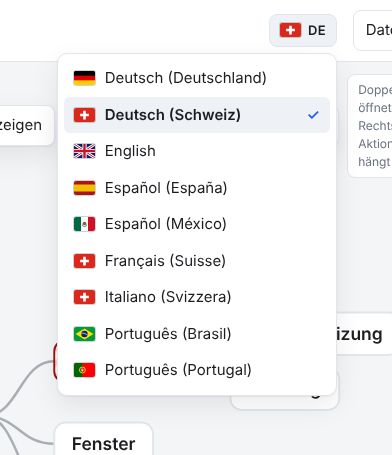
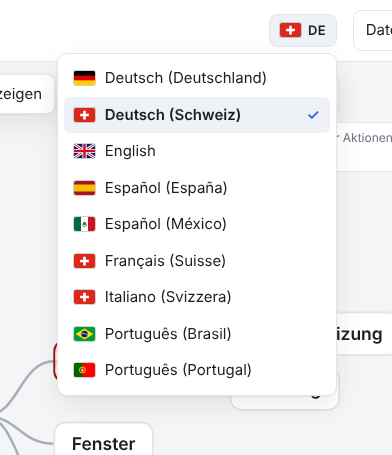
Kern v3.1.0: Sprachwechsel mit Flagge, sieben neue Sprachen, Mindmap ab einem Knoten als Bild
- Sprachen: Deutsch (Deutschland), Français (Suisse), Italiano (Svizzera), Español (España),
  Español (México), Português (Portugal), Português (Brasil) vollständig; «Deutsch (Schweiz)»
  bleibt die Quelle; npm test prüft alle Pakete streng (check --strict)
- Quelltext: eigener Text «ausgeschaltet» für den Status einer Erweiterung (statt «aus», das
  auch «aus Notiz …» heisst); Hilfe zu Querverweisen nennt den Knopf «Verweise ausblenden»
- Mindmap-Leiste: der Hinweis rechts rutscht bei wenig Platz in eine zweite Zeile
- Release-Notizen v3.1.0 mit Screenshots; Version 3.1.0

Claude-Session: https://claude.ai/code/session_01X51ioqC1PmCbJxskKrb5yq

Changed region(s): [[0.8571, 0.1846, 1.0, 0.3692], [0.0, 0.1846, 0.1224, 0.3077]]

diff --git a/lang/fr-CH.js b/lang/fr-CH.js
@@ -263,6 +263,8 @@ NoNotesI18n.register('fr-CH', 'Français (Suisse)', {
   'Noch keine Vorlagen. Verbinde unter «Vorlagen verwalten…» den Ordner templates/ neben index.html oder speichere eine Notiz über «Notiz → Als Vorlage speichern…».': 'Aucun modèle pour l’instant. Connectez le dossier templates/ situé à côté d’index.html sous « Gérer les modèles… » ou enregistrez une note via « Note → Enregistrer comme modèle… ».',
   'Im Bereich «{bereich}» stellt NoNotes jetzt {n} Notiz um.': { many: 'Dans l’espace de travail « {bereich} », NoNotes convertit maintenant {n} notes.', one: 'Dans l’espace de travail « {bereich} », NoNotes convertit maintenant {n} note.', other: 'Dans l’espace de travail « {bereich} », NoNotes convertit maintenant {n} notes.' },
   'Es ist keine Ausprägung geladen.': 'Aucune édition n’est chargée.',
+  'Sprache: {sprache}': 'Langue : {sprache}',
+  'Sprache': 'Langue',
   'Es gibt noch keine Aufgaben oder Fragen mit Termin.': 'Il n’y a pas encore de tâches ni de questions avec échéance.',
   '{n} Termin: {offen} offen': { many: '{n} échéances (ouvertes : {offen})', one: '{n} échéance (ouverte : {offen})', other: '{n} échéances (ouvertes : {offen})' },
   '{n} erledigt/beantwortet (als abgesagt)': 'terminées ou avec réponse : {n} (marquées comme annulées)',
@@ -305,6 +307,7 @@ NoNotesI18n.register('fr-CH', 'Français (Suisse)', {
   'aktiv': 'active',
   'Fehler': 'Erreur',
   'geladen': 'chargée',
+  'ausgeschaltet': 'désactivée',
   'verfügbar': 'disponible',
   'Ein': 'Activée',
   'Bringt ein Design mit; Auswahl im Menü Datenbank.': 'Inclut un thème ; à choisir dans le menu Base de données.',
@@ -623,7 +626,6 @@ NoNotesI18n.register('fr-CH', 'Français (Suisse)', {
   'Datenablage erklärt…': 'Stockage des données expliqué…',
   'Hilfe (F1)': 'Aide (F1)',
   'Erweiterungen…': 'Extensions…',
-  'Sprache': 'Langue',
   'Design': 'Thème',
   'Hauptfarbe': 'Couleur d’accentuation',
   'Neue Notiz unter der Auswahl (Tab)': 'Nouvelle note sous la sélection (Tab)',
@@ -878,7 +880,7 @@ NoNotesI18n.register('fr-CH', 'Français (Suisse)', {
   'Die Adresse nennt Nummer und Titel der Notiz und öffnet sie direkt, auch als Lesezeichen. In einer Notiz zeigt die Vorschau statt der Adresse den aktuellen Titel; ein Klick öffnet die Notiz in der App. Zurück und Vor im Browser (auch mit den Maustasten) gehen von Notiz zu Notiz und zwischen den Ansichten.': 'L’adresse indique le numéro et le titre de la note et l’ouvre directement, aussi comme favori. Dans une note, l’aperçu affiche le titre actuel au lieu de l’adresse ; un clic ouvre la note dans l’application. Précédent et Suivant dans le navigateur (aussi avec les boutons de la souris) passent d’une note à l’autre et d’une vue à l’autre.',
   'Querverweis': 'Référence croisée',
   '<code>[[Titel einer Notiz*]]</code> (Stern am Ende)': '<code>[[Titre de la note*]]</code> (astérisque à la fin)',
-  'Wie ein Verweis, dazu zieht die Mindmap eine gestrichelte Linie zu dieser Notiz, quer zur Hierarchie. Der Schalter «Verweise» in der Mindmap-Leiste blendet alle Linien ein oder aus.': 'Comme une référence, mais la carte mentale trace en plus une ligne pointillée vers cette note, en travers de la hiérarchie. Le bouton « Références » de la barre de la carte mentale affiche ou masque toutes les lignes.',
+  'Wie ein Verweis, dazu zieht die Mindmap eine gestrichelte Linie zu dieser Notiz, quer zur Hierarchie. Der Knopf «Verweise ausblenden» in der Mindmap-Leiste blendet alle Linien aus und wieder ein.': 'Comme une référence, mais la carte mentale trace en plus une ligne pointillée vers cette note, en travers de la hiérarchie. Le bouton « Masquer les références » de la barre de la carte mentale masque toutes les lignes et les réaffiche.',
   'Bild aus der Datenbank': 'Image de la base de données',
   '<code>![Name](att:ID)</code>, entsteht beim Einfügen über den Bild-Knopf, per <code>Ctrl+V</code> oder Ablegen': '<code>![Nom](att:ID)</code>, créé lors de l’insertion via le bouton d’image, avec <code>Ctrl+V</code> ou par glisser-déposer',
   'Das Bild liegt in der SQLite-Datei und wird mitexportiert.': 'L’image est stockée dans le fichier SQLite et exportée avec lui.',
@@ -966,5 +968,4 @@ NoNotesI18n.register('fr-CH', 'Français (Suisse)', {
   'In Ordner speichern…': 'Enregistrer dans un dossier…',
   'Als ZIP herunterladen': 'Télécharger en ZIP',
   'Lade NoNotes…': 'Chargement de NoNotes…',
-  'Sprache: {sprache}': 'Langue : {sprache}',
 }, { locale: 'fr-CH', flag: 'CH' });

diff --git a/lang/es-MX.js b/lang/es-MX.js
@@ -263,6 +263,8 @@ NoNotesI18n.register('es-MX', 'Español (México)', {
   'Noch keine Vorlagen. Verbinde unter «Vorlagen verwalten…» den Ordner templates/ neben index.html oder speichere eine Notiz über «Notiz → Als Vorlage speichern…».': 'Aún no hay plantillas. En “Administrar plantillas…”, conecta la carpeta templates/ que está junto a index.html, o guarda una nota con “Nota → Guardar como plantilla…”.',
   'Im Bereich «{bereich}» stellt NoNotes jetzt {n} Notiz um.': { many: 'En el espacio de trabajo “{bereich}”, NoNotes ahora convierte {n} notas.', one: 'En el espacio de trabajo “{bereich}”, NoNotes ahora convierte {n} nota.', other: 'En el espacio de trabajo “{bereich}”, NoNotes ahora convierte {n} notas.' },
   'Es ist keine Ausprägung geladen.': 'No hay ninguna edición cargada.',
+  'Sprache: {sprache}': 'Idioma: {sprache}',
+  'Sprache': 'Idioma',
   'Es gibt noch keine Aufgaben oder Fragen mit Termin.': 'Aún no hay tareas ni preguntas con fecha.',
   '{n} Termin: {offen} offen': { many: '{n} eventos, pendientes: {offen}', one: '{n} evento, pendientes: {offen}', other: '{n} eventos, pendientes: {offen}' },
   '{n} erledigt/beantwortet (als abgesagt)': 'completadas/respondidas: {n} (como canceladas)',
@@ -305,6 +307,7 @@ NoNotesI18n.register('es-MX', 'Español (México)', {
   'aktiv': 'activa',
   'Fehler': 'Error',
   'geladen': 'cargada',
+  'ausgeschaltet': 'desactivada',
   'verfügbar': 'disponible',
   'Ein': 'Activada',
   'Bringt ein Design mit; Auswahl im Menü Datenbank.': 'Incluye un tema; elígelo en el menú Base de datos.',
@@ -623,7 +626,6 @@ NoNotesI18n.register('es-MX', 'Español (México)', {
   'Datenablage erklärt…': 'Cómo se guardan tus datos…',
   'Hilfe (F1)': 'Ayuda (F1)',
   'Erweiterungen…': 'Extensiones…',
-  'Sprache': 'Idioma',
   'Design': 'Tema',
   'Hauptfarbe': 'Color principal',
   'Neue Notiz unter der Auswahl (Tab)': 'Nueva nota debajo de la selección (Tab)',
@@ -878,7 +880,7 @@ NoNotesI18n.register('es-MX', 'Español (México)', {
   'Die Adresse nennt Nummer und Titel der Notiz und öffnet sie direkt, auch als Lesezeichen. In einer Notiz zeigt die Vorschau statt der Adresse den aktuellen Titel; ein Klick öffnet die Notiz in der App. Zurück und Vor im Browser (auch mit den Maustasten) gehen von Notiz zu Notiz und zwischen den Ansichten.': 'La dirección indica el número y el título de la nota y la abre directamente, también como marcador. Dentro de una nota, la vista previa muestra el título actual en lugar de la dirección; un clic abre la nota en la app. Atrás y Adelante del navegador (también con los botones del mouse) van de nota en nota y entre las vistas.',
   'Querverweis': 'Referencia cruzada',
   '<code>[[Titel einer Notiz*]]</code> (Stern am Ende)': '<code>[[Título de una nota*]]</code> (asterisco al final)',
-  'Wie ein Verweis, dazu zieht die Mindmap eine gestrichelte Linie zu dieser Notiz, quer zur Hierarchie. Der Schalter «Verweise» in der Mindmap-Leiste blendet alle Linien ein oder aus.': 'Como una referencia, pero además el mapa mental traza una línea punteada hacia esa nota, a través de la jerarquía. El botón “Mostrar referencias” / “Ocultar referencias” de la barra del mapa mental muestra u oculta todas las líneas.',
+  'Wie ein Verweis, dazu zieht die Mindmap eine gestrichelte Linie zu dieser Notiz, quer zur Hierarchie. Der Knopf «Verweise ausblenden» in der Mindmap-Leiste blendet alle Linien aus und wieder ein.': 'Como una referencia, pero además el mapa mental traza una línea punteada hacia esa nota, a través de la jerarquía. El botón “Ocultar referencias” de la barra del mapa mental oculta todas las líneas y las vuelve a mostrar.',
   'Bild aus der Datenbank': 'Imagen de la base de datos',
   '<code>![Name](att:ID)</code>, entsteht beim Einfügen über den Bild-Knopf, per <code>Ctrl+V</code> oder Ablegen': '<code>![Nombre](att:ID)</code>, se crea al insertar una imagen con el botón de imagen, con <code>Ctrl+V</code> o al soltarla',
   'Das Bild liegt in der SQLite-Datei und wird mitexportiert.': 'La imagen se guarda en el archivo SQLite y se exporta con él.',
@@ -966,5 +968,4 @@ NoNotesI18n.register('es-MX', 'Español (México)', {
   'In Ordner speichern…': 'Guardar en carpeta…',
   'Als ZIP herunterladen': 'Descargar como ZIP',
   'Lade NoNotes…': 'Cargando NoNotes…',
-  'Sprache: {sprache}': 'Idioma: {sprache}',
 }, { locale: 'es-MX', flag: 'MX', regions: ['MX', '419', 'AR', 'BO', 'CL', 'CO', 'CR', 'CU', 'DO', 'EC', 'GT', 'HN', 'NI', 'PA', 'PE', 'PR', 'PY', 'SV', 'US', 'UY', 'VE'] });

diff --git a/lang/es-ES.js b/lang/es-ES.js
@@ -263,6 +263,8 @@ NoNotesI18n.register('es-ES', 'Español (España)', {
   'Noch keine Vorlagen. Verbinde unter «Vorlagen verwalten…» den Ordner templates/ neben index.html oder speichere eine Notiz über «Notiz → Als Vorlage speichern…».': 'Aún no hay plantillas. Conecta en «Gestionar plantillas…» la carpeta templates/ que está junto a index.html o guarda una nota con «Nota → Guardar como plantilla…».',
   'Im Bereich «{bereich}» stellt NoNotes jetzt {n} Notiz um.': { many: 'En el espacio de trabajo «{bereich}», NoNotes convierte ahora {n} notas.', one: 'En el espacio de trabajo «{bereich}», NoNotes convierte ahora {n} nota.', other: 'En el espacio de trabajo «{bereich}», NoNotes convierte ahora {n} notas.' },
   'Es ist keine Ausprägung geladen.': 'No hay ninguna edición cargada.',
+  'Sprache: {sprache}': 'Idioma: {sprache}',
+  'Sprache': 'Idioma',
   'Es gibt noch keine Aufgaben oder Fragen mit Termin.': 'Aún no hay tareas ni preguntas con fecha.',
   '{n} Termin: {offen} offen': { many: '{n} eventos, pendientes: {offen}', one: '{n} evento, pendientes: {offen}', other: '{n} eventos, pendientes: {offen}' },
   '{n} erledigt/beantwortet (als abgesagt)': 'completadas o respondidas: {n} (como canceladas)',
@@ -305,6 +307,7 @@ NoNotesI18n.register('es-ES', 'Español (España)', {
   'aktiv': 'activa',
   'Fehler': 'Error',
   'geladen': 'cargada',
+  'ausgeschaltet': 'desactivada',
   'verfügbar': 'disponible',
   'Ein': 'Activada',
   'Bringt ein Design mit; Auswahl im Menü Datenbank.': 'Incluye un tema; elígelo en el menú Base de datos.',
@@ -623,7 +626,6 @@ NoNotesI18n.register('es-ES', 'Español (España)', {
   'Datenablage erklärt…': 'Cómo se guardan tus datos…',
   'Hilfe (F1)': 'Ayuda (F1)',
   'Erweiterungen…': 'Extensiones…',
-  'Sprache': 'Idioma',
   'Design': 'Tema',
   'Hauptfarbe': 'Color principal',
   'Neue Notiz unter der Auswahl (Tab)': 'Nueva nota bajo la selección (Tab)',
@@ -878,7 +880,7 @@ NoNotesI18n.register('es-ES', 'Español (España)', {
   'Die Adresse nennt Nummer und Titel der Notiz und öffnet sie direkt, auch als Lesezeichen. In einer Notiz zeigt die Vorschau statt der Adresse den aktuellen Titel; ein Klick öffnet die Notiz in der App. Zurück und Vor im Browser (auch mit den Maustasten) gehen von Notiz zu Notiz und zwischen den Ansichten.': 'La dirección indica el número y el título de la nota y la abre directamente, también como marcador. Dentro de una nota, la vista previa muestra el título actual en lugar de la dirección; un clic abre la nota en la aplicación. Atrás y Adelante del navegador (también con los botones del ratón) van de nota en nota y entre las vistas.',
   'Querverweis': 'Referencia cruzada',
   '<code>[[Titel einer Notiz*]]</code> (Stern am Ende)': '<code>[[Título de una nota*]]</code> (asterisco al final)',
-  'Wie ein Verweis, dazu zieht die Mindmap eine gestrichelte Linie zu dieser Notiz, quer zur Hierarchie. Der Schalter «Verweise» in der Mindmap-Leiste blendet alle Linien ein oder aus.': 'Como una referencia, pero además el mapa mental traza una línea discontinua hasta esta nota, transversal a la jerarquía. El botón «Ocultar referencias» («Mostrar referencias») de la barra del mapa mental muestra u oculta todas las líneas.',
+  'Wie ein Verweis, dazu zieht die Mindmap eine gestrichelte Linie zu dieser Notiz, quer zur Hierarchie. Der Knopf «Verweise ausblenden» in der Mindmap-Leiste blendet alle Linien aus und wieder ein.': 'Como una referencia, pero además el mapa mental traza una línea discontinua hasta esta nota, transversal a la jerarquía. El botón «Ocultar referencias» de la barra del mapa mental oculta todas las líneas y las vuelve a mostrar.',
   'Bild aus der Datenbank': 'Imagen de la base de datos',
   '<code>![Name](att:ID)</code>, entsteht beim Einfügen über den Bild-Knopf, per <code>Ctrl+V</code> oder Ablegen': '<code>![Nombre](att:ID)</code>, se crea al insertar una imagen con el botón de imagen, con <code>Ctrl+V</code> o soltándola',
   'Das Bild liegt in der SQLite-Datei und wird mitexportiert.': 'La imagen se guarda en el archivo SQLite y se exporta con él.',
@@ -966,5 +968,4 @@ NoNotesI18n.register('es-ES', 'Español (España)', {
   'In Ordner speichern…': 'Guardar en carpeta…',
   'Als ZIP herunterladen': 'Descargar como ZIP',
   'Lade NoNotes…': 'Cargando NoNotes…',
-  'Sprache: {sprache}': 'Idioma: {sprache}',
 }, { locale: 'es-ES', flag: 'ES', regions: ['ES'] });

diff --git a/lang/pt-PT.js b/lang/pt-PT.js
@@ -263,6 +263,8 @@ NoNotesI18n.register('pt-PT', 'Português (Portugal)', {
   'Noch keine Vorlagen. Verbinde unter «Vorlagen verwalten…» den Ordner templates/ neben index.html oder speichere eine Notiz über «Notiz → Als Vorlage speichern…».': 'Ainda não há modelos. Em «Gerir modelos…», ligue a pasta templates/ que está ao lado de index.html, ou guarde uma nota com «Nota → Guardar como modelo…».',
   'Im Bereich «{bereich}» stellt NoNotes jetzt {n} Notiz um.': { many: 'Na área «{bereich}», o NoNotes vai agora converter {n} notas.', one: 'Na área «{bereich}», o NoNotes vai agora converter {n} nota.', other: 'Na área «{bereich}», o NoNotes vai agora converter {n} notas.' },
   'Es ist keine Ausprägung geladen.': 'Nenhuma edição carregada.',
+  'Sprache: {sprache}': 'Idioma: {sprache}',
+  'Sprache': 'Idioma',
   'Es gibt noch keine Aufgaben oder Fragen mit Termin.': 'Ainda não há tarefas nem perguntas com data.',
   '{n} Termin: {offen} offen': { many: '{n} eventos: {offen} em aberto', one: '{n} evento: {offen} em aberto', other: '{n} eventos: {offen} em aberto' },
   '{n} erledigt/beantwortet (als abgesagt)': '{n} concluídos/respondidos (como cancelados)',
@@ -305,6 +307,7 @@ NoNotesI18n.register('pt-PT', 'Português (Portugal)', {
   'aktiv': 'ativa',
   'Fehler': 'Erro',
   'geladen': 'carregada',
+  'ausgeschaltet': 'desativada',
   'verfügbar': 'disponível',
   'Ein': 'Ativada',
   'Bringt ein Design mit; Auswahl im Menü Datenbank.': 'Inclui um tema; escolha-o no menu Base de dados.',
@@ -623,7 +626,6 @@ NoNotesI18n.register('pt-PT', 'Português (Portugal)', {
   'Datenablage erklärt…': 'Como são guardados os dados…',
   'Hilfe (F1)': 'Ajuda (F1)',
   'Erweiterungen…': 'Extensões…',
-  'Sprache': 'Idioma',
   'Design': 'Tema',
   'Hauptfarbe': 'Cor de destaque',
   'Neue Notiz unter der Auswahl (Tab)': 'Nova nota debaixo da seleção (Tab)',
@@ -878,7 +880,7 @@ NoNotesI18n.register('pt-PT', 'Português (Portugal)', {
   'Die Adresse nennt Nummer und Titel der Notiz und öffnet sie direkt, auch als Lesezeichen. In einer Notiz zeigt die Vorschau statt der Adresse den aktuellen Titel; ein Klick öffnet die Notiz in der App. Zurück und Vor im Browser (auch mit den Maustasten) gehen von Notiz zu Notiz und zwischen den Ansichten.': 'O endereço indica o número e o título da nota e abre-a diretamente, também como marcador. Numa nota, a pré-visualização mostra o título atual em vez do endereço; um clique abre a nota na aplicação. Retroceder e Avançar no navegador (também com os botões do rato) passam de nota em nota e entre as vistas.',
   'Querverweis': 'Referência cruzada',
   '<code>[[Titel einer Notiz*]]</code> (Stern am Ende)': '<code>[[Título de uma nota*]]</code> (asterisco no fim)',
-  'Wie ein Verweis, dazu zieht die Mindmap eine gestrichelte Linie zu dieser Notiz, quer zur Hierarchie. Der Schalter «Verweise» in der Mindmap-Leiste blendet alle Linien ein oder aus.': 'Como uma referência e, além disso, o mapa mental traça uma linha tracejada até essa nota, transversal à hierarquia. O botão «Referências» na barra do mapa mental mostra ou oculta todas as linhas.',
+  'Wie ein Verweis, dazu zieht die Mindmap eine gestrichelte Linie zu dieser Notiz, quer zur Hierarchie. Der Knopf «Verweise ausblenden» in der Mindmap-Leiste blendet alle Linien aus und wieder ein.': 'Como uma referência e, além disso, o mapa mental traça uma linha tracejada até essa nota, transversal à hierarquia. O botão «Ocultar referências» na barra do mapa mental oculta todas as linhas e volta a mostrá-las.',
   'Bild aus der Datenbank': 'Imagem da base de dados',
   '<code>![Name](att:ID)</code>, entsteht beim Einfügen über den Bild-Knopf, per <code>Ctrl+V</code> oder Ablegen': '<code>![Nome](att:ID)</code>, criado ao inserir uma imagem com o botão de imagem, com <code>Ctrl+V</code> ou largando-a',
   'Das Bild liegt in der SQLite-Datei und wird mitexportiert.': 'A imagem fica guardada no ficheiro SQLite e é exportada com ele.',
@@ -966,5 +968,4 @@ NoNotesI18n.register('pt-PT', 'Português (Portugal)', {
   'In Ordner speichern…': 'Guardar numa pasta…',
   'Als ZIP herunterladen': 'Transferir como ZIP',
   'Lade NoNotes…': 'A carregar o NoNotes…',
-  'Sprache: {sprache}': 'Idioma: {sprache}',
 }, { locale: 'pt-PT', flag: 'PT', regions: ['PT', 'AO', 'MZ', 'CV', 'GW', 'ST', 'TL', 'MO'] });

diff --git a/lang/it-CH.js b/lang/it-CH.js
@@ -263,6 +263,8 @@ NoNotesI18n.register('it-CH', 'Italiano (Svizzera)', {
   'Noch keine Vorlagen. Verbinde unter «Vorlagen verwalten…» den Ordner templates/ neben index.html oder speichere eine Notiz über «Notiz → Als Vorlage speichern…».': 'Ancora nessun modello. Collega la cartella templates/ accanto a index.html in «Gestisci modelli…» oppure salva una nota con «Nota → Salva come modello…».',
   'Im Bereich «{bereich}» stellt NoNotes jetzt {n} Notiz um.': { many: 'Nell’area di lavoro «{bereich}» NoNotes ora converte {n} note.', one: 'Nell’area di lavoro «{bereich}» NoNotes ora converte {n} nota.', other: 'Nell’area di lavoro «{bereich}» NoNotes ora converte {n} note.' },
   'Es ist keine Ausprägung geladen.': 'Nessuna edizione caricata.',
+  'Sprache: {sprache}': 'Lingua: {sprache}',
+  'Sprache': 'Lingua',
   'Es gibt noch keine Aufgaben oder Fragen mit Termin.': 'Non ci sono ancora attività o domande con scadenza.',
   '{n} Termin: {offen} offen': { many: '{n} eventi, di cui aperti: {offen}', one: '{n} evento, di cui aperti: {offen}', other: '{n} eventi, di cui aperti: {offen}' },
   '{n} erledigt/beantwortet (als abgesagt)': '{n} completati/con risposta (come annullati)',
@@ -305,6 +307,7 @@ NoNotesI18n.register('it-CH', 'Italiano (Svizzera)', {
   'aktiv': 'attiva',
   'Fehler': 'Errore',
   'geladen': 'caricata',
+  'ausgeschaltet': 'disattivata',
   'verfügbar': 'disponibile',
   'Ein': 'Attiva',
   'Bringt ein Design mit; Auswahl im Menü Datenbank.': 'Include un tema; si sceglie nel menu Database.',
@@ -623,7 +626,6 @@ NoNotesI18n.register('it-CH', 'Italiano (Svizzera)', {
   'Datenablage erklärt…': 'Come vengono memorizzati i dati…',
   'Hilfe (F1)': 'Guida (F1)',
   'Erweiterungen…': 'Estensioni…',
-  'Sprache': 'Lingua',
   'Design': 'Tema',
   'Hauptfarbe': 'Colore principale',
   'Neue Notiz unter der Auswahl (Tab)': 'Nuova nota sotto la selezione (Tab)',
@@ -878,7 +880,7 @@ NoNotesI18n.register('it-CH', 'Italiano (Svizzera)', {
   'Die Adresse nennt Nummer und Titel der Notiz und öffnet sie direkt, auch als Lesezeichen. In einer Notiz zeigt die Vorschau statt der Adresse den aktuellen Titel; ein Klick öffnet die Notiz in der App. Zurück und Vor im Browser (auch mit den Maustasten) gehen von Notiz zu Notiz und zwischen den Ansichten.': 'L’indirizzo contiene numero e titolo della nota e la apre direttamente, anche come segnalibro. In una nota, l’anteprima mostra il titolo attuale al posto dell’indirizzo; un clic apre la nota nell’app. Indietro e Avanti nel browser (anche con i tasti del mouse) passano da nota a nota e tra le viste.',
   'Querverweis': 'Riferimento incrociato',
   '<code>[[Titel einer Notiz*]]</code> (Stern am Ende)': '<code>[[Titolo di una nota*]]</code> (asterisco alla fine)',
-  'Wie ein Verweis, dazu zieht die Mindmap eine gestrichelte Linie zu dieser Notiz, quer zur Hierarchie. Der Schalter «Verweise» in der Mindmap-Leiste blendet alle Linien ein oder aus.': 'Come un riferimento; in più la mappa mentale traccia una linea tratteggiata verso questa nota, trasversale alla gerarchia. L’interruttore «Riferimenti» nella barra della mappa mentale mostra o nasconde tutte le linee.',
+  'Wie ein Verweis, dazu zieht die Mindmap eine gestrichelte Linie zu dieser Notiz, quer zur Hierarchie. Der Knopf «Verweise ausblenden» in der Mindmap-Leiste blendet alle Linien aus und wieder ein.': 'Come un riferimento; in più la mappa mentale traccia una linea tratteggiata verso questa nota, trasversale alla gerarchia. Il pulsante «Nascondi riferimenti» nella barra della mappa mentale nasconde tutte le linee e le mostra di nuovo.',
   'Bild aus der Datenbank': 'Immagine dal database',
   '<code>![Name](att:ID)</code>, entsteht beim Einfügen über den Bild-Knopf, per <code>Ctrl+V</code> oder Ablegen': '<code>![Nome](att:ID)</code>, si crea inserendo un’immagine con il pulsante Immagine, con <code>Ctrl+V</code> o trascinandola',
   'Das Bild liegt in der SQLite-Datei und wird mitexportiert.': 'L’immagine si trova nel file SQLite e viene esportata insieme.',
@@ -966,5 +968,4 @@ NoNotesI18n.register('it-CH', 'Italiano (Svizzera)', {
   'In Ordner speichern…': 'Salva in una cartella…',
   'Als ZIP herunterladen': 'Scarica come ZIP',
   'Lade NoNotes…': 'Caricamento di NoNotes…',
-  'Sprache: {sprache}': 'Lingua: {sprache}',
 }, { locale: 'it-CH', flag: 'CH' });

diff --git a/lang/pt-BR.js b/lang/pt-BR.js
@@ -263,6 +263,8 @@ NoNotesI18n.register('pt-BR', 'Português (Brasil)', {
   'Noch keine Vorlagen. Verbinde unter «Vorlagen verwalten…» den Ordner templates/ neben index.html oder speichere eine Notiz über «Notiz → Als Vorlage speichern…».': 'Ainda não há modelos. Conecte a pasta templates/ ao lado de index.html em “Gerenciar modelos…” ou salve uma nota com “Nota → Salvar como modelo…”.',
   'Im Bereich «{bereich}» stellt NoNotes jetzt {n} Notiz um.': { many: 'No espaço de trabalho “{bereich}”, o NoNotes vai converter agora {n} notas.', one: 'No espaço de trabalho “{bereich}”, o NoNotes vai converter agora {n} nota.', other: 'No espaço de trabalho “{bereich}”, o NoNotes vai converter agora {n} notas.' },
   'Es ist keine Ausprägung geladen.': 'Nenhuma edição carregada.',
+  'Sprache: {sprache}': 'Idioma: {sprache}',
+  'Sprache': 'Idioma',
   'Es gibt noch keine Aufgaben oder Fragen mit Termin.': 'Ainda não há tarefas ou perguntas com prazo.',
   '{n} Termin: {offen} offen': { many: '{n} eventos: {offen} em aberto', one: '{n} evento: {offen} em aberto', other: '{n} eventos: {offen} em aberto' },
   '{n} erledigt/beantwortet (als abgesagt)': '{n} concluídos/respondidos (como cancelados)',
@@ -305,6 +307,7 @@ NoNotesI18n.register('pt-BR', 'Português (Brasil)', {
   'aktiv': 'ativa',
   'Fehler': 'Erro',
   'geladen': 'carregada',
+  'ausgeschaltet': 'desativada',
   'verfügbar': 'disponível',
   'Ein': 'Ativada',
   'Bringt ein Design mit; Auswahl im Menü Datenbank.': 'Traz um tema; escolha-o no menu Banco de dados.',
@@ -623,7 +626,6 @@ NoNotesI18n.register('pt-BR', 'Português (Brasil)', {
   'Datenablage erklärt…': 'Como os dados são armazenados…',
   'Hilfe (F1)': 'Ajuda (F1)',
   'Erweiterungen…': 'Extensões…',
-  'Sprache': 'Idioma',
   'Design': 'Tema',
   'Hauptfarbe': 'Cor de destaque',
   'Neue Notiz unter der Auswahl (Tab)': 'Nova nota abaixo da seleção (Tab)',
@@ -878,7 +880,7 @@ NoNotesI18n.register('pt-BR', 'Português (Brasil)', {
   'Die Adresse nennt Nummer und Titel der Notiz und öffnet sie direkt, auch als Lesezeichen. In einer Notiz zeigt die Vorschau statt der Adresse den aktuellen Titel; ein Klick öffnet die Notiz in der App. Zurück und Vor im Browser (auch mit den Maustasten) gehen von Notiz zu Notiz und zwischen den Ansichten.': 'O endereço traz o número e o título da nota e a abre diretamente, também como favorito. Dentro de uma nota, a prévia mostra o título atual em vez do endereço; um clique abre a nota no aplicativo. Voltar e Avançar do navegador (também com os botões do mouse) vão de nota em nota e entre as visualizações.',
   'Querverweis': 'Referência cruzada',
   '<code>[[Titel einer Notiz*]]</code> (Stern am Ende)': '<code>[[Título de uma nota*]]</code> (asterisco no final)',
-  'Wie ein Verweis, dazu zieht die Mindmap eine gestrichelte Linie zu dieser Notiz, quer zur Hierarchie. Der Schalter «Verweise» in der Mindmap-Leiste blendet alle Linien ein oder aus.': 'Como uma referência; além disso, o mapa mental traça uma linha tracejada até essa nota, atravessando a hierarquia. O botão “Referências” na barra do mapa mental mostra ou oculta todas as linhas.',
+  'Wie ein Verweis, dazu zieht die Mindmap eine gestrichelte Linie zu dieser Notiz, quer zur Hierarchie. Der Knopf «Verweise ausblenden» in der Mindmap-Leiste blendet alle Linien aus und wieder ein.': 'Como uma referência; além disso, o mapa mental traça uma linha tracejada até essa nota, atravessando a hierarquia. O botão “Ocultar referências” na barra do mapa mental oculta todas as linhas e as mostra novamente.',
   'Bild aus der Datenbank': 'Imagem do banco de dados',
   '<code>![Name](att:ID)</code>, entsteht beim Einfügen über den Bild-Knopf, per <code>Ctrl+V</code> oder Ablegen': '<code>![Nome](att:ID)</code>, criado ao inserir com o botão de imagem, com <code>Ctrl+V</code> ou soltando a imagem',
   'Das Bild liegt in der SQLite-Datei und wird mitexportiert.': 'A imagem fica no arquivo SQLite e é exportada junto.',
@@ -966,5 +968,4 @@ NoNotesI18n.register('pt-BR', 'Português (Brasil)', {
   'In Ordner speichern…': 'Salvar em pasta…',
   'Als ZIP herunterladen': 'Baixar como ZIP',
   'Lade NoNotes…': 'Carregando o NoNotes…',
-  'Sprache: {sprache}': 'Idioma: {sprache}',
 }, { locale: 'pt-BR', flag: 'BR', regions: ['BR'] });

diff --git a/packages/ui/index.html b/packages/ui/index.html
@@ -565,7 +565,7 @@ Firmenname wie im Handelsregister, **ohne** Rechtsform.
             <tr><td>Verweis</td><td><code>[[Titel einer Notiz]]</code></td><td>Klick in der Vorschau öffnet die Notiz; fehlt sie, wird sie auf Wunsch als Unternotiz angelegt.</td></tr>
             <tr><td>Vorschläge für Verweise</td><td><code>[[</code> tippen oder der Knopf <code>[[ ]]</code></td><td>Eine Liste mit den Notizen des Bereichs und ihrer Anzahl; Tippen schränkt sie ein. <kbd>↑</kbd> und <kbd>↓</kbd> wählen (auch über die ersten zehn hinaus), <kbd>Enter</kbd> oder <kbd>Tab</kbd> übernehmen, <kbd>Umschalt+Enter</kbd> als Querverweis, <kbd>Esc</kbd> schliesst. Gleichnamige Notizen zeigen ihren Eltern-Node, mit gedrückter <kbd>Strg</kbd>-Taste zeigen alle ihren Pfad. Gibt es den Titel mehrfach, kommt die Nummer dazu: <code>[[Protokoll#42]]</code> meint genau diese Notiz, auch nach Umbenennen oder Verschieben; die Vorschau zeigt nur «Protokoll».</td></tr>
             <tr><td>Link auf eine Notiz</td><td><em>Notiz → Link kopieren</em> (oder Rechtsklick in der Mindmap), die Adresse irgendwo einfügen</td><td>Die Adresse nennt Nummer und Titel der Notiz und öffnet sie direkt, auch als Lesezeichen. In einer Notiz zeigt die Vorschau statt der Adresse den aktuellen Titel; ein Klick öffnet die Notiz in der App. Zurück und Vor im Browser (auch mit den Maustasten) gehen von Notiz zu Notiz und zwischen den Ansichten.</td></tr>
-            <tr><td>Querverweis</td><td><code>[[Titel einer Notiz*]]</code> (Stern am Ende)</td><td>Wie ein Verweis, dazu zieht die Mindmap eine gestrichelte Linie zu dieser Notiz, quer zur Hierarchie. Der Schalter «Verweise» in der Mindmap-Leiste blendet alle Linien ein oder aus.</td></tr>
+            <tr><td>Querverweis</td><td><code>[[Titel einer Notiz*]]</code> (Stern am Ende)</td><td>Wie ein Verweis, dazu zieht die Mindmap eine gestrichelte Linie zu dieser Notiz, quer zur Hierarchie. Der Knopf «Verweise ausblenden» in der Mindmap-Leiste blendet alle Linien aus und wieder ein.</td></tr>
             <tr><td>Bild aus der Datenbank</td><td><code>![Name](att:ID)</code>, entsteht beim Einfügen über den Bild-Knopf, per <code>Ctrl+V</code> oder Ablegen</td><td>Das Bild liegt in der SQLite-Datei und wird mitexportiert.</td></tr>
             <tr><td>Datei oder Ordner</td><td><code>\\server\freigabe\Plan.pdf</code>, <code>Z:\Team\</code>, <code>file:///C:/Daten/</code>; mit Leerzeichen <code>&lt;\\server\Projekte\Angebot 2026.docx&gt;</code> oder <code>[Angebot](&lt;…&gt;)</code></td><td>Wird ein Link mit einem Symbol für Datei oder Ordner. In der lokalen Version öffnet ein Klick die Datei in einem neuen Tab (PDF, Bild und Text zeigt der Browser, Word und Excel lädt er herunter, ein Ordner zeigt seinen Inhalt). Rechtsklick → <em>Pfad kopieren</em> für den Explorer. Im Dienst kopiert schon der Klick den Pfad, weil Browser dort keine Dateien öffnen. Ein Pfad endet beim ersten Leerzeichen; «Als Pfad kopieren» aus dem Explorer wird beim Einfügen von selbst in <code>&lt; &gt;</code> gesetzt. <code>![Plan](\\server\…\plan.png)</code> zeigt das Bild (nur lokal).</td></tr>
           </tbody>

diff --git a/lang/de-DE.js b/lang/de-DE.js
@@ -307,6 +307,7 @@ NoNotesI18n.register('de-DE', 'Deutsch (Deutschland)', {
   'aktiv': 'aktiv',
   'Fehler': 'Fehler',
   'geladen': 'geladen',
+  'ausgeschaltet': 'ausgeschaltet',
   'verfügbar': 'verfügbar',
   'Ein': 'Ein',
   'Bringt ein Design mit; Auswahl im Menü Datenbank.': 'Bringt ein Design mit; Auswahl im Menü Datenbank.',
@@ -879,7 +880,7 @@ NoNotesI18n.register('de-DE', 'Deutsch (Deutschland)', {
   'Die Adresse nennt Nummer und Titel der Notiz und öffnet sie direkt, auch als Lesezeichen. In einer Notiz zeigt die Vorschau statt der Adresse den aktuellen Titel; ein Klick öffnet die Notiz in der App. Zurück und Vor im Browser (auch mit den Maustasten) gehen von Notiz zu Notiz und zwischen den Ansichten.': 'Die Adresse nennt Nummer und Titel der Notiz und öffnet sie direkt, auch als Lesezeichen. In einer Notiz zeigt die Vorschau statt der Adresse den aktuellen Titel; ein Klick öffnet die Notiz in der App. Zurück und Vor im Browser (auch mit den Maustasten) gehen von Notiz zu Notiz und zwischen den Ansichten.',
   'Querverweis': 'Querverweis',
   '<code>[[Titel einer Notiz*]]</code> (Stern am Ende)': '<code>[[Titel einer Notiz*]]</code> (Stern am Ende)',
-  'Wie ein Verweis, dazu zieht die Mindmap eine gestrichelte Linie zu dieser Notiz, quer zur Hierarchie. Der Schalter «Verweise» in der Mindmap-Leiste blendet alle Linien ein oder aus.': 'Wie ein Verweis, dazu zieht die Mindmap eine gestrichelte Linie zu dieser Notiz, quer zur Hierarchie. Der Schalter „Verweise“ in der Mindmap-Leiste blendet alle Linien ein oder aus.',
+  'Wie ein Verweis, dazu zieht die Mindmap eine gestrichelte Linie zu dieser Notiz, quer zur Hierarchie. Der Knopf «Verweise ausblenden» in der Mindmap-Leiste blendet alle Linien aus und wieder ein.': 'Wie ein Verweis, dazu zieht die Mindmap eine gestrichelte Linie zu dieser Notiz, quer zur Hierarchie. Der Knopf „Verweise ausblenden“ in der Mindmap-Leiste blendet alle Linien aus und wieder ein.',
   'Bild aus der Datenbank': 'Bild aus der Datenbank',
   '<code>![Name](att:ID)</code>, entsteht beim Einfügen über den Bild-Knopf, per <code>Ctrl+V</code> oder Ablegen': '<code>![Name](att:ID)</code>, entsteht beim Einfügen über den Bild-Knopf, per <code>Ctrl+V</code> oder Ablegen',
   'Das Bild liegt in der SQLite-Datei und wird mitexportiert.': 'Das Bild liegt in der SQLite-Datei und wird mitexportiert.',

diff --git a/lang/en.js b/lang/en.js
@@ -307,6 +307,7 @@ NoNotesI18n.register('en', 'English', {
   'aktiv': 'active',
   'Fehler': 'Error',
   'geladen': 'loaded',
+  'ausgeschaltet': 'off',
   'verfügbar': 'available',
   'Ein': 'On',
   'Bringt ein Design mit; Auswahl im Menü Datenbank.': 'Includes a theme; choose it in the Database menu.',
@@ -879,7 +880,7 @@ NoNotesI18n.register('en', 'English', {
   'Die Adresse nennt Nummer und Titel der Notiz und öffnet sie direkt, auch als Lesezeichen. In einer Notiz zeigt die Vorschau statt der Adresse den aktuellen Titel; ein Klick öffnet die Notiz in der App. Zurück und Vor im Browser (auch mit den Maustasten) gehen von Notiz zu Notiz und zwischen den Ansichten.': 'The address names the note’s number and title and opens it directly, also as a bookmark. In a note, the preview shows the current title instead of the address; a click opens the note in the app. Back and forward in the browser (also with the mouse buttons) go from note to note and between the views.',
   'Querverweis': 'Cross-reference',
   '<code>[[Titel einer Notiz*]]</code> (Stern am Ende)': '<code>[[Title of a note*]]</code> (asterisk at the end)',
-  'Wie ein Verweis, dazu zieht die Mindmap eine gestrichelte Linie zu dieser Notiz, quer zur Hierarchie. Der Schalter «Verweise» in der Mindmap-Leiste blendet alle Linien ein oder aus.': 'Like a reference, plus the mind map draws a dashed line to this note, across the hierarchy. The “References” switch in the mind map bar shows or hides all lines.',
+  'Wie ein Verweis, dazu zieht die Mindmap eine gestrichelte Linie zu dieser Notiz, quer zur Hierarchie. Der Knopf «Verweise ausblenden» in der Mindmap-Leiste blendet alle Linien aus und wieder ein.': 'Like a reference, plus the mind map draws a dashed line to this note, across the hierarchy. The “Hide references” button in the mind map bar hides all lines and shows them again.',
   'Bild aus der Datenbank': 'Image from the database',
   '<code>![Name](att:ID)</code>, entsteht beim Einfügen über den Bild-Knopf, per <code>Ctrl+V</code> oder Ablegen': '<code>![Name](att:ID)</code>, created when you insert an image with the image button, with <code>Ctrl+V</code> or by dropping it',
   'Das Bild liegt in der SQLite-Datei und wird mitexportiert.': 'The image is stored in the SQLite file and is exported with it.',

diff --git a/packages/ui/app.css b/packages/ui/app.css
@@ -456,13 +456,14 @@ body:not(.view-list).editor-open #editorPane { max-width: 1000px; }
 .map-toolbar {
   position: absolute;
   top: 12px; left: 12px; right: 12px;
-  display: flex; align-items: center; gap: 8px;
+  display: flex; flex-wrap: wrap; align-items: center; gap: 8px;
   pointer-events: none;
   z-index: 5;
 }
 .map-toolbar > * { pointer-events: auto; }
 .map-toolbar button { box-shadow: var(--shadow); }
-.map-hint { margin-left: auto; font-size: 12px; color: var(--muted); background: var(--panel); border: 1px solid var(--border); border-radius: 8px; padding: 6px 10px; }
+/* Der Hinweis rechts: wird er schmaler als 190 px (längere Sprachen, schmales Fenster), rutscht er in eine zweite Zeile, statt zur hohen Spalte zu werden */
+.map-hint { flex: 1 1 190px; max-width: 340px; margin-left: auto; font-size: 12px; color: var(--muted); background: var(--panel); border: 1px solid var(--border); border-radius: 8px; padding: 6px 10px; }
 
 .mindmap { flex: 1; width: 100%; height: 100%; display: block; touch-action: none; cursor: grab; outline: none; user-select: none; -webkit-user-select: none; }
 .mindmap:active { cursor: grabbing; }

diff --git a/packages/ui/app.js b/packages/ui/app.js
@@ -1327,7 +1327,7 @@
     head.appendChild(h);
     const st = document.createElement('div');
     st.className = 'plugin-state' + (it.status === 'error' ? ' error' : '');
-    st.textContent = { active: t('aktiv'), error: t('Fehler'), loaded: t('geladen'), off: t('aus'), available: t('verfügbar') }[it.status] || it.status;
+    st.textContent = { active: t('aktiv'), error: t('Fehler'), loaded: t('geladen'), off: t('ausgeschaltet'), available: t('verfügbar') }[it.status] || it.status;
     head.appendChild(st);
     const tooNew = it.api != null && it.api > Plugins.API;
     if (!it.fixed) {

diff --git a/docs/releases/v3.1.0/RELEASE.md b/docs/releases/v3.1.0/RELEASE.md
@@ -57,6 +57,10 @@ Häkchen zeigt. Export und Druck zeichnen die Mindmap weiterhin ohne diese Farbe
 
 - Hilfe, Reiter *Tastenkürzel*: die Taste `Entf` blieb in anderen Sprachen deutsch; sie heisst jetzt wie auf der Tastatur der
   Sprache (`Del`, `Suppr`, `Canc`, `Supr`).
+- *Erweiterungen…*: eine ausgeschaltete Erweiterung hiess auf Englisch «from» (derselbe Text wie «aus Notiz …»); jetzt
+  «off» bzw. «ausgeschaltet».
+- Hilfe zu Querverweisen: nennt den Knopf jetzt so, wie er heisst (*Verweise ausblenden*).
+- Mindmap-Leiste: der Hinweis rechts wurde bei wenig Platz zur schmalen, hohen Spalte; jetzt rutscht er in eine zweite Zeile.
 
 ## Update von v3.0.0
 
